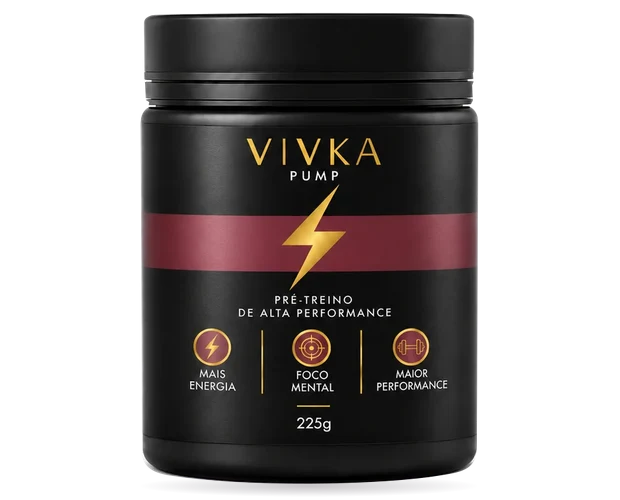
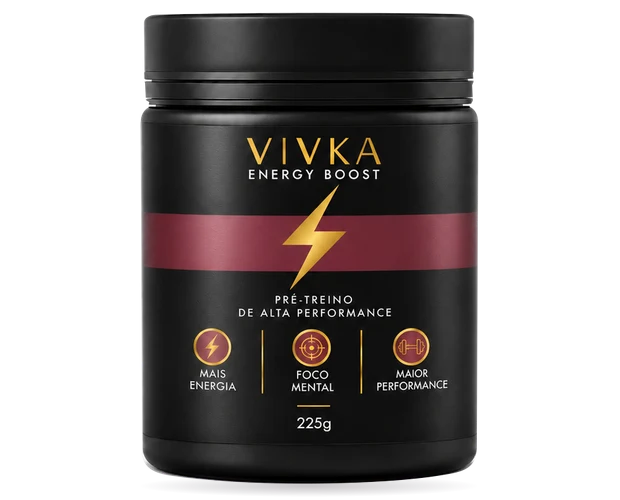
Atualiza mockups com o rótulo Vivka Energy Boost

diff --git a/src/data/produtos.ts b/src/data/produtos.ts
@@ -5,7 +5,7 @@ export const BASE_URL = "https://vivka.com.br";
 
 /** Prefixa um caminho de /public com a base do Vite (ex.: "/vivka/" no GitHub Pages; "/" em domínio próprio). */
 /** Versão das imagens: troque ao substituir fotos/mockups para o navegador não usar a cópia antiga em cache. */
-export const ASSET_VERSION = "2026-10-22";
+export const ASSET_VERSION = "2026-11-13";
 export const asset = (p: string) =>
   `${import.meta.env.BASE_URL.replace(/\/$/, "")}${p}${/\.(webp|png|jpe?g|svg)$/i.test(p) ? `?v=${ASSET_VERSION}` : ""}`;
 
@@ -310,7 +310,7 @@ export const PRODUTOS: Record<ProdutoId, Produto> = {
       },
     ],
     image: "/products/energy-boost-card.webp",
-    imageAlt: "Pote preto de 225 g com faixa vinho, raio dourado e rótulo Vivka Pump",
+    imageAlt: "Pote preto de Vivka Energy Boost de 225 g com faixa vinho e raio dourado",
   },
 };
 
